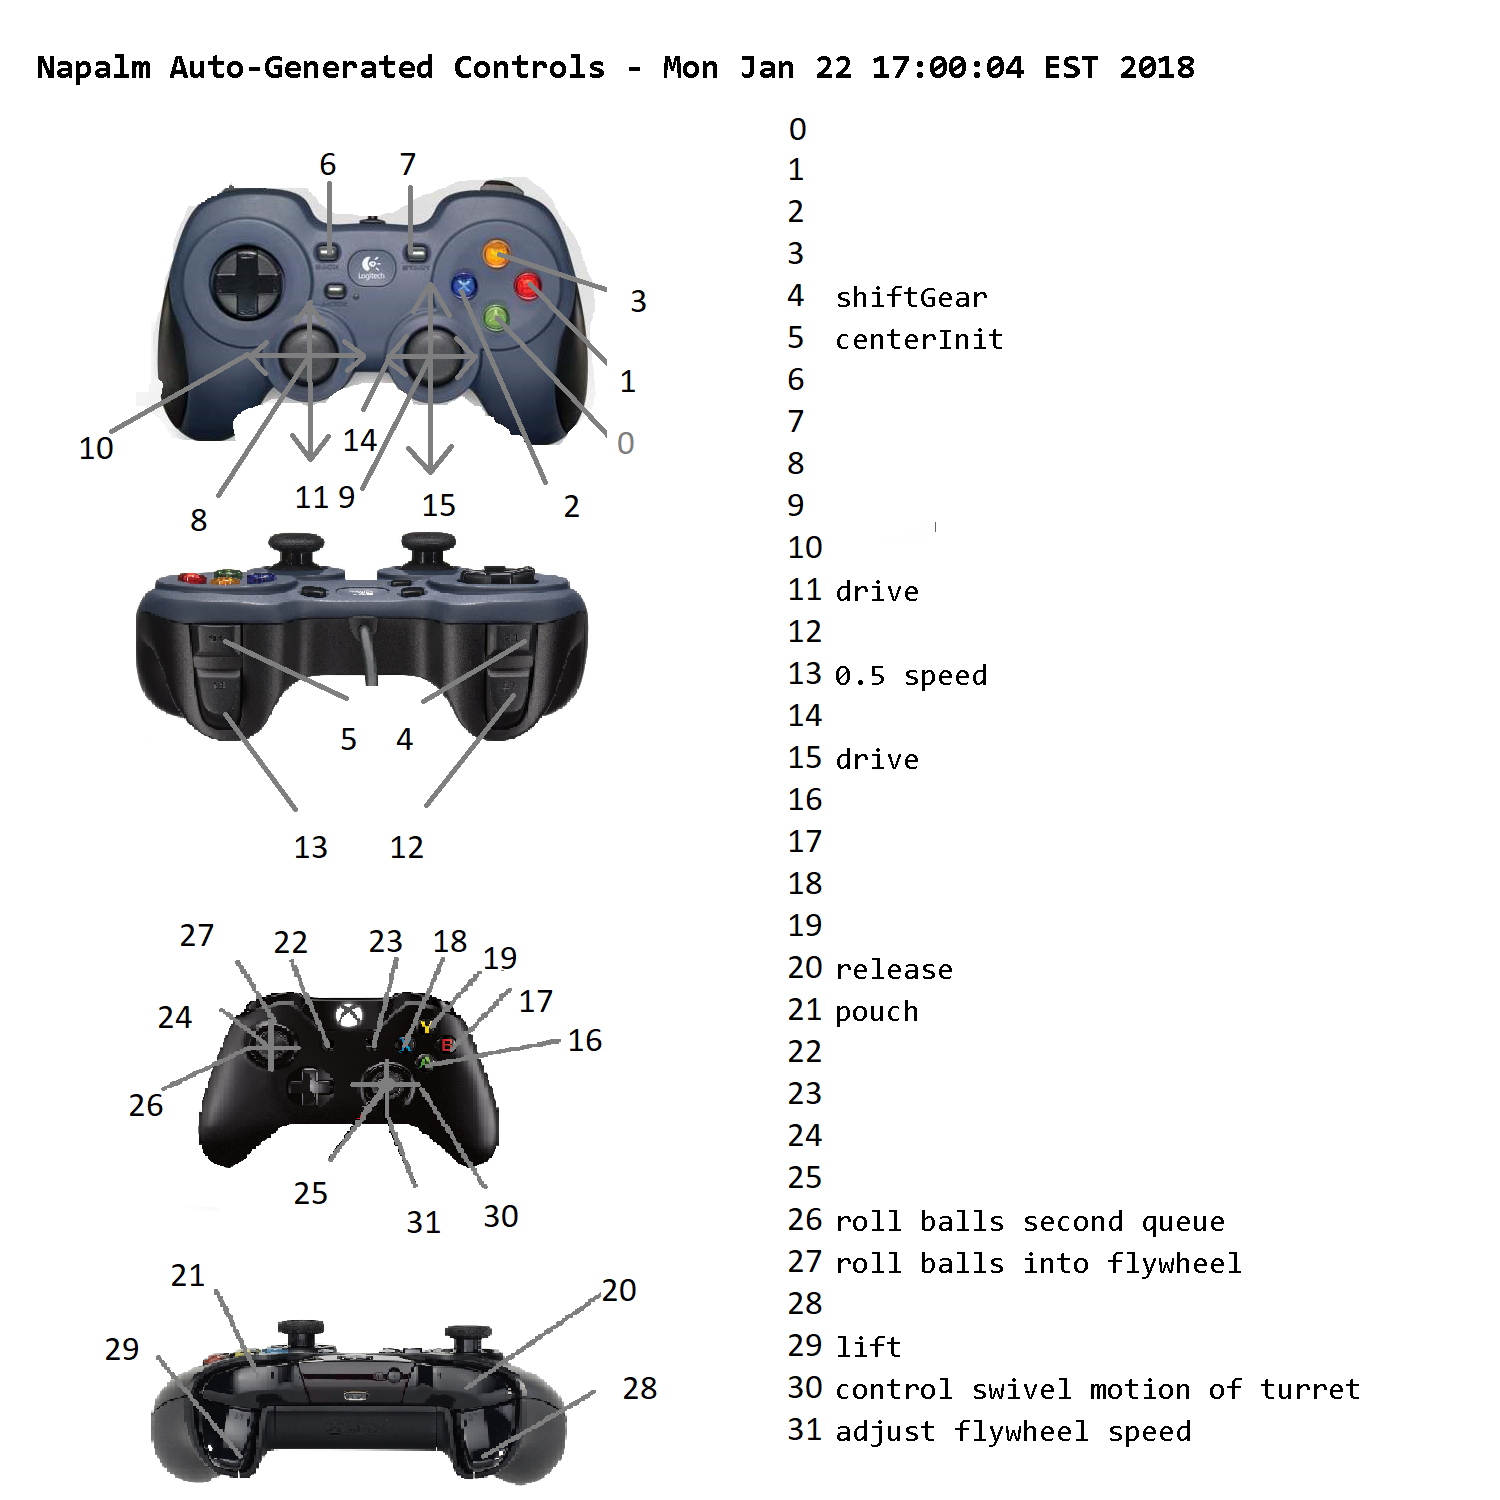
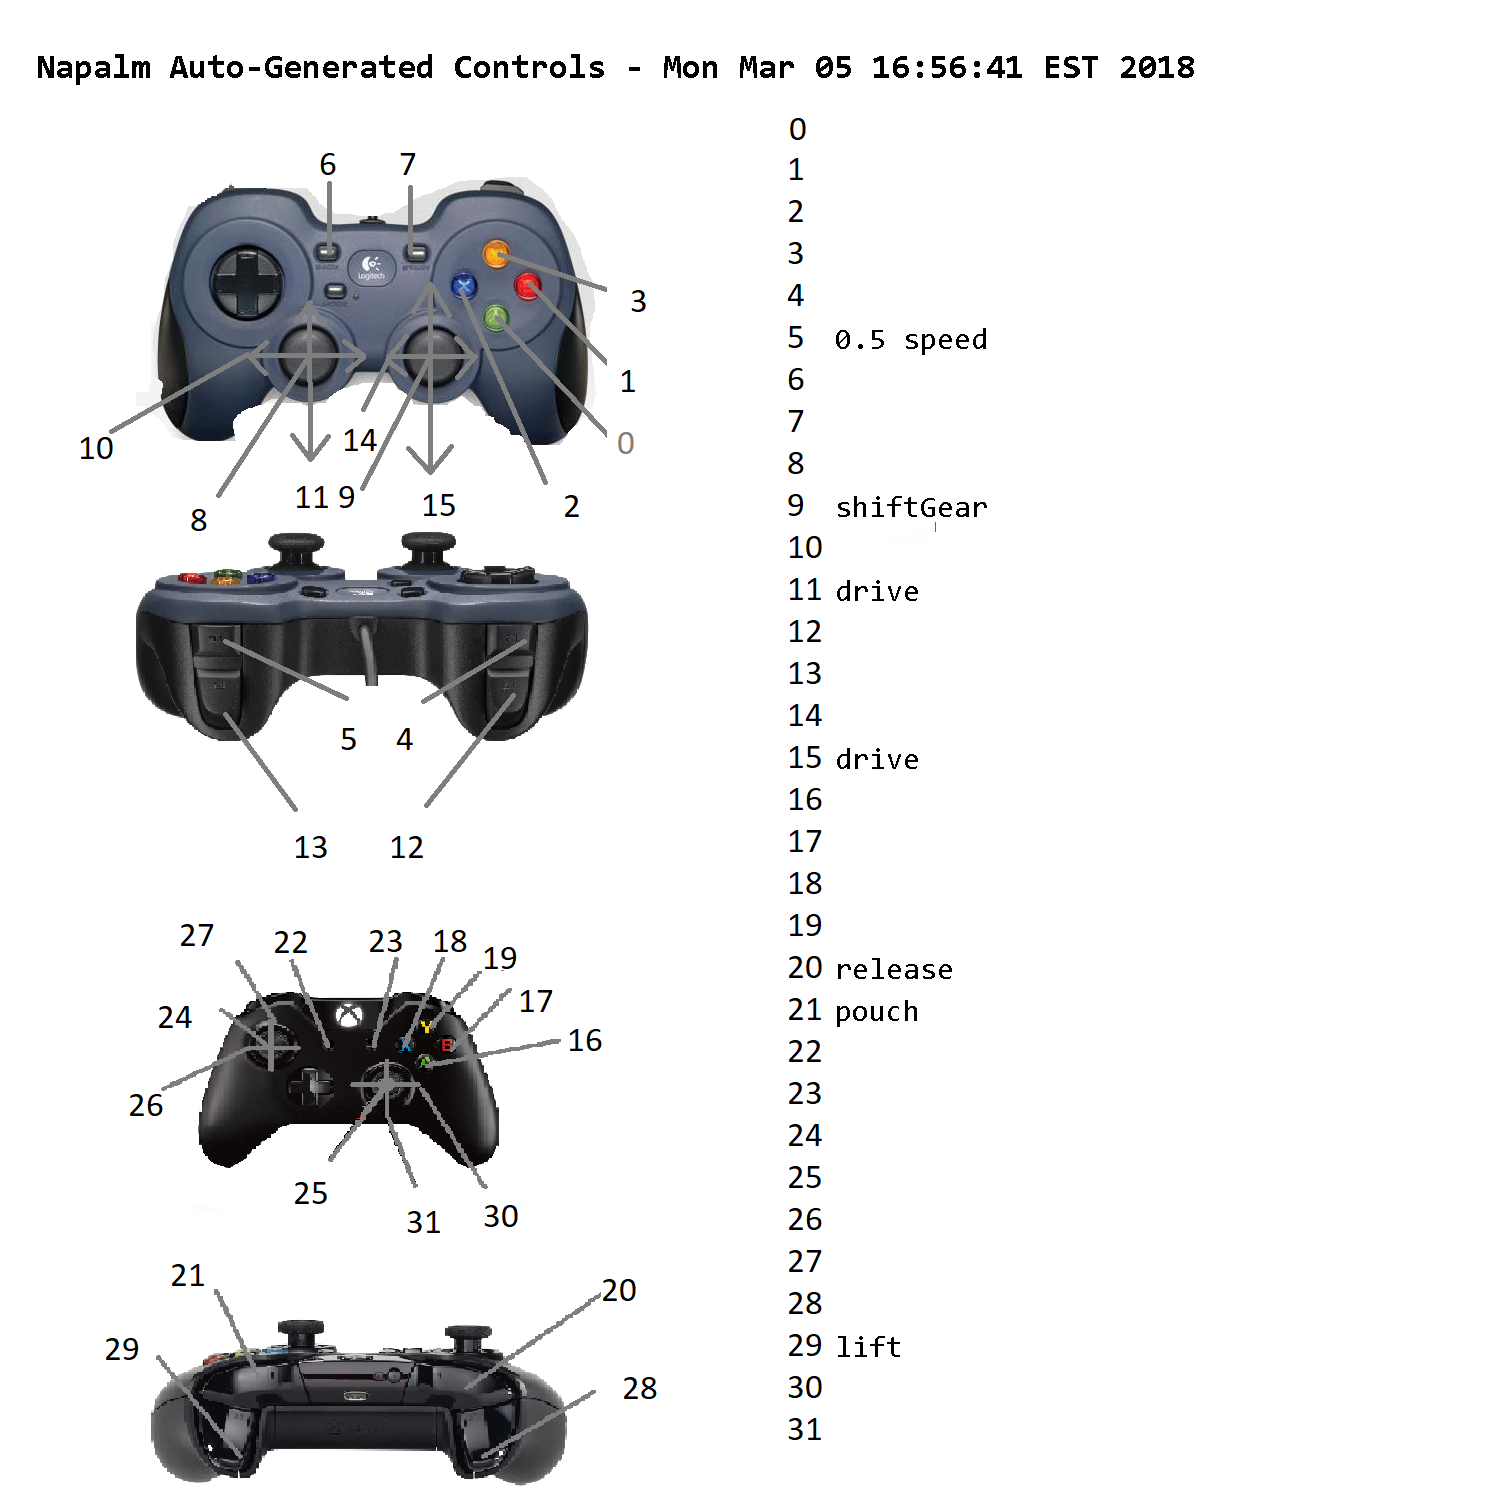
Controls Reconfiguration
Changed the controls of Napalm to be those of Guillotine (Power-Up).
Shooter seems to be entirely missing, but I would've disabled it
anyways.

The idea here is that our driver (Skyler) will be able to practice tank
drive using this setup.

-Ben

diff --git a/Napalm Recode/src/org/usfirst/frc/team283/napalm/Robot.java b/Napalm Recode/src/org/usfirst/frc/team283/napalm/Robot.java
@@ -1,10 +1,7 @@
 package org.usfirst.frc.team283.napalm;
 
-import edu.wpi.first.wpilibj.DigitalInput;
 import edu.wpi.first.wpilibj.IterativeRobot;
 import edu.wpi.first.wpilibj.Joystick;
-import edu.wpi.first.wpilibj.Timer;
-import edu.wpi.first.wpilibj.networktables.NetworkTable;
 
 public class Robot extends IterativeRobot 
 {
@@ -13,26 +10,6 @@ public class Robot extends IterativeRobot
 	//ShooterSubsystem shooterSubsystem;
 	Joystick xbox;
 	Joystick logitech;
-	//NetworkTable cvData;
-	
-	//Autonomous Vars
-	/** Holds the values of the triple switches on the side of the robot */
-	DigitalInput autoSwitches[];
-	/** General timer */
-	Timer autoTimer;
-	/** Determines what phase of each autonomous we're on */
-	int autoStep = 0;
-	/** Possible kinds of autonomous. See definition (control-click) for descriptions */
-	private enum AutoMode
-	{
-		kForwards, //Drives over base line
-		kForwardGear, //Drives forwards to spike, deposits gear, and backs up
-		kDone //Intentionally does nothing
-	}
-	/** Controls which autonomous we use
-	 * <br>If you initialize a value here, then that WILL be the autonomous. If you don't it will select based on switches
-	 * */
-	private AutoMode aM = AutoMode.kForwards;
 	
 	@Override
 	public void robotInit() 
@@ -40,124 +17,16 @@ public class Robot extends IterativeRobot
 		drivetrain = new DriveSubsystem();
 		gearSubsystem = new GearSubsystem();
 		//shooterSubsystem = new ShooterSubsystem();
-		//cvData = NetworkTable.getTable("cv_data");
-		autoTimer = new Timer();
-		//autoSwitches[0] = new DigitalInput(Constants.AUTO_SWITCH_LEFT); //Left, middle and right switches
-		//autoSwitches[1] = new DigitalInput(Constants.AUTO_SWITCH_MIDDLE);
-		//autoSwitches[2] = new DigitalInput(Constants.AUTO_SWITCH_RIGHT);
 		logitech = new Joystick(Constants.DRIVER_CONTROLLER_PORT);
 		xbox = new Joystick(Constants.OPERATOR_CONTROLLER_PORT);
-	}
-	@Override
-	public void autonomousInit()
-	{
-		/*if (aM == null) //If no value for aM was defined
-		{
-			System.out.println("No value for autoMode was defined. Checking switches...");
-			//All three switches off
-			if (autoSwitches[0].get() == false && autoSwitches[1].get() == false && autoSwitches[2].get() == false)
-				aM = AutoMode.kDone;
-			//Left switch on
-			if (autoSwitches[0].get() == true && autoSwitches[1].get() == false && autoSwitches[2].get() == false)
-				aM = AutoMode.kForwards;
-			//Middle switch on
-			if (autoSwitches[0].get() == false && autoSwitches[1].get() == true && autoSwitches[2].get() == false)
-				aM = AutoMode.kForwardGear;
-		}
-		else
-		{
-			System.out.println("autoMode was defined as =" + aM);
-		}
-		*/
-		autoTimer.reset();
-		autoTimer.start(); //Reset and start the auto timer so that if the first step requires waiting it can wait
-	}
-	
-	@Override
-	public void autonomousPeriodic() 
-	{
-		/*System.out.println("AUTONOMOUS STATUS:");
-		System.out.println("    autoMode = " + aM);
-		System.out.println("    autoStep = " + autoStep);
-		switch (aM) //Executes an autonomous based on the values of aM
-		{
-			case kForwards:
-				switch (autoStep) //Determines the phase of the autonomous
-				{
-					case 0:
-						drivetrain.driveLeftDistance(150); //Drive forwards
-						drivetrain.driveRightDistance(150);
-						autoStep++;
-					break;
-					case 1:
-						 if (drivetrain.periodic() == false) //Wait for the forward motion to finish (When it is false, it is done)
-						 {
-							 autoStep++; //When we reach target, advance step
-						 }
-					break;
-					case 2:
-						//Do nothing, end of this autonomous.
-					break;
-				}
-			break;
-			case kForwardGear:
-				switch (autoStep) //Determines the phase of the autonomous
-				{
-					case 0:
-						drivetrain.driveLeftDistance(85); //Drive forwards 
-						drivetrain.driveRightDistance(85);
-						autoStep++;
-					break;
-					case 1:
-						 if (drivetrain.periodic() == false) //Wait for the forward motion to finish (When it is false, it is done)
-						 {
-							 autoStep++; //When we reach target, advance step
-						 }
-					break;
-					case 2:
-						if (gearSubsystem.release(true) == true) //Opens the manibles for the pouch, begins waiting. If it returns true, gear is ejected.
-						{
-							autoStep++; //Gear was ejected, advance to next step
-						}
-					break;
-					case 3:
-						if (gearSubsystem.release(false) == true) //Closes the manibles and retracts. Returns true when successfully finished retracting.
-						{
-							autoStep++; //System retracted, advance to next step
-						}
-					break;
-					case 4:
-						drivetrain.driveLeftDistance(-25); //Drive back - this is so the human player can pull the gear up.
-						drivetrain.driveRightDistance(-25);
-						autoStep++;
-					break;
-					case 5:
-						 if (drivetrain.periodic() == false) //Wait for the forward motion to finish (When it is false, it is done)
-						 { 
-							 autoStep++;//When we reach target, advance step
-						 }
-					case 6:
-						//Finished.
-					break;
-				}
-			break;
-			case kDone:
-			break;
-		}*/
-	}
-	
-	@Override
-	public void teleopInit()
-	{
-		
 	}
 	
 	@Override
 	public void teleopPeriodic() 
 	{
-		drivetrain.drive(logitech.getRawAxis(Constants.LEFT_Y), logitech.getRawAxis(Constants.RIGHT_Y),(logitech.getRawAxis(Constants.RIGHT_TRIGGER) >= 0.5), logitech.getRawButton(Constants.A));
+		drivetrain.drive(logitech.getRawAxis(Constants.LEFT_Y), logitech.getRawAxis(Constants.RIGHT_Y),logitech.getRawButton(Constants.RIGHT_BUMPER), false);
 		drivetrain.lift(xbox.getRawAxis(Constants.RIGHT_TRIGGER));
-		drivetrain.shiftGear(logitech.getRawButton(Constants.LEFT_BUMPER));
+		drivetrain.shiftGear(logitech.getRawButton(Constants.RIGHT_STICK_BUTTON));
 		gearSubsystem.pouch(xbox.getRawButton(Constants.RIGHT_BUMPER));
 		gearSubsystem.release(xbox.getRawButton(Constants.LEFT_BUMPER));
 		//shooterSubsystem.manualAim(xbox.getRawAxis(Constants.RIGHT_X));

diff --git a/Napalm Recode/src/org/usfirst/frc/team283/napalm/DriveSubsystem.java b/Napalm Recode/src/org/usfirst/frc/team283/napalm/DriveSubsystem.java
@@ -131,7 +131,7 @@ public class DriveSubsystem
 	
 	@Schema(Scheme.LEFT_Y)
 	@Schema(Scheme.RIGHT_Y)
-	@Schema(value = Scheme.RIGHT_TRIGGER, desc = SLOWSPEED + " speed")
+	@Schema(value = Scheme.RIGHT_BUMPER, desc = SLOWSPEED + " speed")
 	/**
 	 * 
 	 * @param leftMagnitude
@@ -141,8 +141,8 @@ public class DriveSubsystem
 	 */
 	public void drive(double leftMagnitude, double rightMagnitude, boolean slowSpeed, boolean setZero)
 	{
-		leftController.set(-1 * (Rescaler.rescale(DEADZONE, 1.0, 0.0, 1.0, leftMagnitude)) * (slowSpeed ? SLOWSPEED : 1));
-		rightController.set( (Rescaler.rescale(DEADZONE, 1.0, 0.0, 1.0, rightMagnitude)) * (slowSpeed ? SLOWSPEED : 1));
+		leftController.set(-1 * leftMagnitude * (slowSpeed ? SLOWSPEED : 1));
+		rightController.set(rightMagnitude * (slowSpeed ? SLOWSPEED : 1));
 		if(setZero == true)
 		{
 			leftEnc.reset();
@@ -150,7 +150,7 @@ public class DriveSubsystem
 		}
 	}
 	
-	@Schema(Scheme.LEFT_BUMPER)
+	@Schema(Scheme.RIGHT_STICK_BUTTON)
 	/**
 	 * 
 	 * @param gearButtonState
@@ -215,7 +215,6 @@ public class DriveSubsystem
 	 * <b>YOU MUST PUT CENTERPERIODIC() IN YOUR PERIODIC FUNCTION</b>
 	 * @return - true if successfully initializes centering
 	 */
-	@Schema(Scheme.RIGHT_BUMPER)
 	public boolean centerInit()
 	{
 		System.out.println("Center Init()");

diff --git a/Napalm Recode/src/org/usfirst/frc/team283/napalm/Scheme.java b/Napalm Recode/src/org/usfirst/frc/team283/napalm/Scheme.java
@@ -23,7 +23,7 @@ public class Scheme
 {
 	public static void main(String[] args)
 	{
-		Scheme s = new Scheme("Napalm", "org.usfirst.frc.team283.napalm.DriveSubsystem", "org.usfirst.frc.team283.napalm.GearSubsystem", "org.usfirst.frc.team283.napalm.ShooterSubsystem");
+		Scheme s = new Scheme("Napalm", "org.usfirst.frc.team283.napalm.DriveSubsystem", "org.usfirst.frc.team283.napalm.GearSubsystem");
 		s.generate();
 	}
 	
